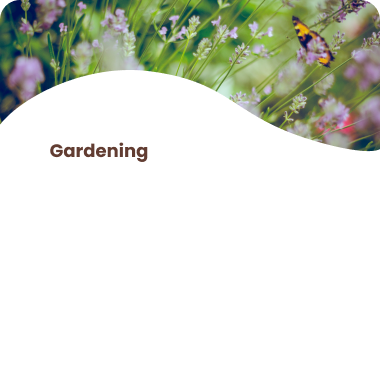
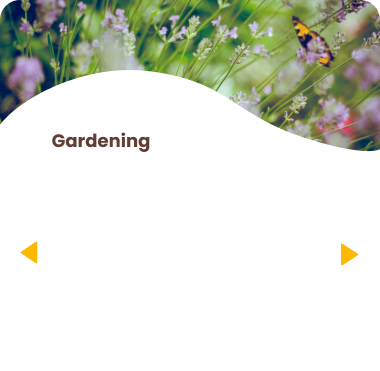
work page functional, need more aesthetic components and styling

Changed region(s): [[0.1158, 0.3558, 0.4053, 0.4447], [0.0579, 0.6523, 0.1158, 0.7116], [0.8974, 0.6523, 0.9553, 0.7116]]

diff --git a/app/screens/Work.js b/app/screens/Work.js
@@ -6,6 +6,7 @@ import { render } from 'react-dom';
 import { color } from 'react-native-reanimated';
 import Swiper from 'react-native-swiper';
 import { firestore } from 'firebase';
+import {storage} from 'firebase';
 
 function Work({ route, navigation }) {
     const { userValue } = route.params;
@@ -37,46 +38,70 @@ function Work({ route, navigation }) {
         }).start();
     };
 
-    const clicked = (id) => {
-        alert("clicked")
-        console.log(id)
-    }
+    // const clicked = (id) => {
+    //     alert("clicked")
+    //     console.log(id)
+    // }
+
 
     const [taskDisplay, setTaskDisplay]= React.useState([]);
-    const addMoreTask = (newTask) => {
-        setTaskDisplay({taskDisplay: [...taskDisplay, newTask]});
-      }
+    //const [otherUser, setOtherUser]=React.useState('')
+    var otherUser = "";
+    const [task1, setTask] = React.useState('')
+    const [imageArray, setImageArray] = React.useState([]);
 
-    firestore()
-        .collection("tasks")
-        .where("user","==","9053334444")
-        .get()
-        .then((docSnapshot)=>{
-            const taskArray =[];
-            docSnapshot.forEach((doc)=>{
-                //console.log(doc.get("category"));
-                taskArray.push(doc.data());
-                // addMoreTask({
-                //     id: taskDisplay.length,
-                //     category: doc.get("category"),
-                // })
-            })
-            setTaskDisplay(taskArray);
-        })
+    //const reference = storage().ref('garden1.png').getDownloadURL();
+
+    if (userValue=="4161112222") {
+        otherUser= "9053334444";
+    }
+    else otherUser = "4161112222";
+
+    // findOtherUser();
+    // console.log(otherUser);
+
+    let user = firestore()
+        .collection('users')
+        .doc(otherUser)
+    user.get()
+        .then((docSnapshot) => {
+            if (docSnapshot.exists) {
+                setTask(docSnapshot.get("task1"));
+            }
+        });
+
+    useEffect(()=> {
+        const subscriber = 
+            firestore().collection("tasks").where("user","==",otherUser).orderBy("time","desc")
+                .get()
+                .then((docSnapshot)=>{
+                    const taskArray =[];
+                    docSnapshot.forEach((doc)=>{
+                        taskArray.push(doc.data());
+                    })
+                    setTaskDisplay(taskArray);
+                })
+                .catch((error) => {
+                    console.log("Error getting documents: ", error);
+                });
+        return () => subscriber;
+    }, [task1])
+    
     
     //const arr = [...taskDisplay].map((_, i) => i);
     //console.log(taskDisplay.length);
 
-    const displayByArray = taskDisplay.map((item, index)=>
-        <View key = {index} 
-            style={{flex:1, flexDirection: 'row', alignContent: 'center'}}>
-            <TouchableOpacity>
-                <Image source={require('../assets/task_place.png')}
-                    style={{ alignSelf: 'center', borderRadius: 13, marginHorizontal:10, }}>
-                </Image>
-            </TouchableOpacity>
-        </View>
+
+    const displayGardenArray = taskDisplay.map((item, index)=>
+        <TouchableOpacity key = {index}>
+            <Image source={item.image=="../assets/garden1.png"? require("../assets/garden1.png"): item.image=="../assets/garden2.png"? require("../assets/garden2.png"): require("../assets/task_place.png")}
+            //../assets/garden1.png
+                style={{ alignSelf: 'center', borderRadius: 13, marginHorizontal:10, }}>
+            </Image>
+        </TouchableOpacity>
     )
+    {/* <Image source={item.image=="../assets/garden1.png"? require("../assets/garden1.png"): item.image=="../assets/garden2.png"? require("../assets/garden2.png"): require("../assets/task_place.png") } */}
+{/* <Image source = {require("../assets/garden1.png")} */}
 
 
     return (
@@ -160,21 +185,8 @@ function Work({ route, navigation }) {
                             <ImageBackground
                                 source={require('../assets/gardening.png')}
                                 style={styles.taskContainer}>
-                                <Swiper style={styles.taskSubContainer} activeDotColor={colors.secondary}>
-                                    {displayByArray}
-                                    <View style={{flex:1, flexDirection: 'row', alignContent: 'center'}}>
-                                    <TouchableOpacity>
-                                        <Image source={require('../assets/garden1.png')}
-                                            style={{ alignSelf: 'center', borderRadius: 13, marginLeft:26, marginRight: 10 }}>
-                                        </Image>
-                                    </TouchableOpacity>
-                                    <TouchableOpacity>
-                                        <Image source={require('../assets/garden2.png')}
-                                            style={{ alignSelf: 'center', borderRadius: 13, marginRight:26, marginLeft: 10}}>
-
-                                        </Image>
-                                    </TouchableOpacity>
-                                    </View>
+                                <Swiper style={styles.taskSubContainer} loop={false} showsPagination= {false}>
+                                    {displayGardenArray}
                                 </Swiper>
                             </ImageBackground>
                         </View>
@@ -182,23 +194,37 @@ function Work({ route, navigation }) {
                             <ImageBackground
                                 source={require('../assets/plumbing.png')}
                                 style={styles.taskContainer}>
-                                    <Swiper style={styles.taskSubContainer} activeDotColor={colors.secondary}>
-                                        <View style={{flex:1, flexDirection: 'row', alignContent: 'center'}}>
-                                        <TouchableOpacity>
-                                            <Image source={require('../assets/garden1.png')}
-                                                style={{ alignSelf: 'center', borderRadius: 13, marginLeft:26, marginRight: 10 }}>
-                                            </Image>
-                                        </TouchableOpacity>
-                                        <TouchableOpacity>
-                                            <Image source={require('../assets/garden2.png')}
-                                                style={{ alignSelf: 'center', borderRadius: 13, marginRight:26, marginLeft: 10}}>
-
-                                            </Image>
-                                        </TouchableOpacity>
-                                        </View>
+                                    <Swiper style={styles.taskSubContainer} showsPagination= {false} loop={false}>
+                                        {/* <View style={{flex:1, flexDirection: 'row', alignContent: 'center'}}>
+                                        </View> */}
                                         <TouchableOpacity>
                                             <Image source={require('../assets/garden1.png')}
                                                 style={{ alignSelf: 'center', borderRadius: 13, marginHorizontal:10, }}>
+                                            </Image>
+                                        </TouchableOpacity>
+                                        <TouchableOpacity>
+                                            <Image source={require('../assets/garden1.png')}
+                                                style={{ alignSelf: 'center', borderRadius: 13, marginRight:26, marginLeft: 10}}>
+                                            </Image>
+                                        </TouchableOpacity>
+                                    </Swiper>
+                            </ImageBackground>
+                        </View>
+                        <View>
+                            <ImageBackground
+                                source={require('../assets/delivery.png')}
+                                style={styles.taskContainer}>
+                                    <Swiper style={styles.taskSubContainer} showsPagination= {false} loop={false}>
+                                        {/* <View style={{flex:1, flexDirection: 'row', alignContent: 'center'}}>
+                                        </View> */}
+                                        <TouchableOpacity>
+                                            <Image source={require('../assets/garden1.png')}
+                                                style={{ alignSelf: 'center', borderRadius: 13, marginHorizontal:10, }}>
+                                            </Image>
+                                        </TouchableOpacity>
+                                        <TouchableOpacity>
+                                            <Image source={require('../assets/garden1.png')}
+                                                style={{ alignSelf: 'center', borderRadius: 13, marginRight:26, marginLeft: 10}}>
                                             </Image>
                                         </TouchableOpacity>
                                     </Swiper>

diff --git a/app/screens/Login.js b/app/screens/Login.js
@@ -6,6 +6,7 @@ import 'react-native-gesture-handler';
 TextInput.defaultProps.selectionColor = 'rgba(254, 182, 0, 0.5)';
 import "firebase/firestore";
 import { firebase } from '../config/firebase';
+import { set } from 'react-native-reanimated';
 LogBox.ignoreLogs(['Setting a timer']);
 
 function Login({ navigation }) {
@@ -19,7 +20,9 @@ function Login({ navigation }) {
                 if (docSnapshot.exists) {
                     let pass = docSnapshot.get("password");
                     console.log(pass);
-                    if (pass == passValue) navigation.navigate('Dashboard', { userValue });
+                    if (pass == passValue) {
+                        navigation.navigate('Dashboard', { userValue })
+                    }
                     else {
                         Alert.alert(
                             "Your password does not match our records!"

diff --git a/app/screens/Dashboard.js b/app/screens/Dashboard.js
@@ -24,8 +24,8 @@ function Dashboard({ route, navigation }) {
     const [taskCategory, setCat] = React.useState('')
     const [taskDisplay, setTaskDisplay] = React.useState([]);
     const [displayUser, setDisplayUser] = React.useState()
-
     const { userValue } = route.params;
+
     //setDisplayUser(require("../assets/"+userValue.toString()+".png"));
     let user = firestore()
         .collection('users')
@@ -61,7 +61,7 @@ function Dashboard({ route, navigation }) {
                     console.log("Error getting documents: ", error);
                 });
         return () => subscriber;
-    }, [{ task1 }])
+    }, [{task1}])
     const displayByArray = taskDisplay.map((item, index) =>
         <View key={index} style={styles.request}>
             <Text style={[styles.requestText, styles.requestPosted]}>Pending</Text>

diff --git a/app/screens/SendRequest.js b/app/screens/SendRequest.js
@@ -75,6 +75,7 @@ function SendRequest({ route, navigation }) {
                 urgency: taskUrgency.value,
                 category: taskCategory,
                 points: points,
+                time: firestore.Timestamp.now(),
             })
         firestore()
             .collection('users')
